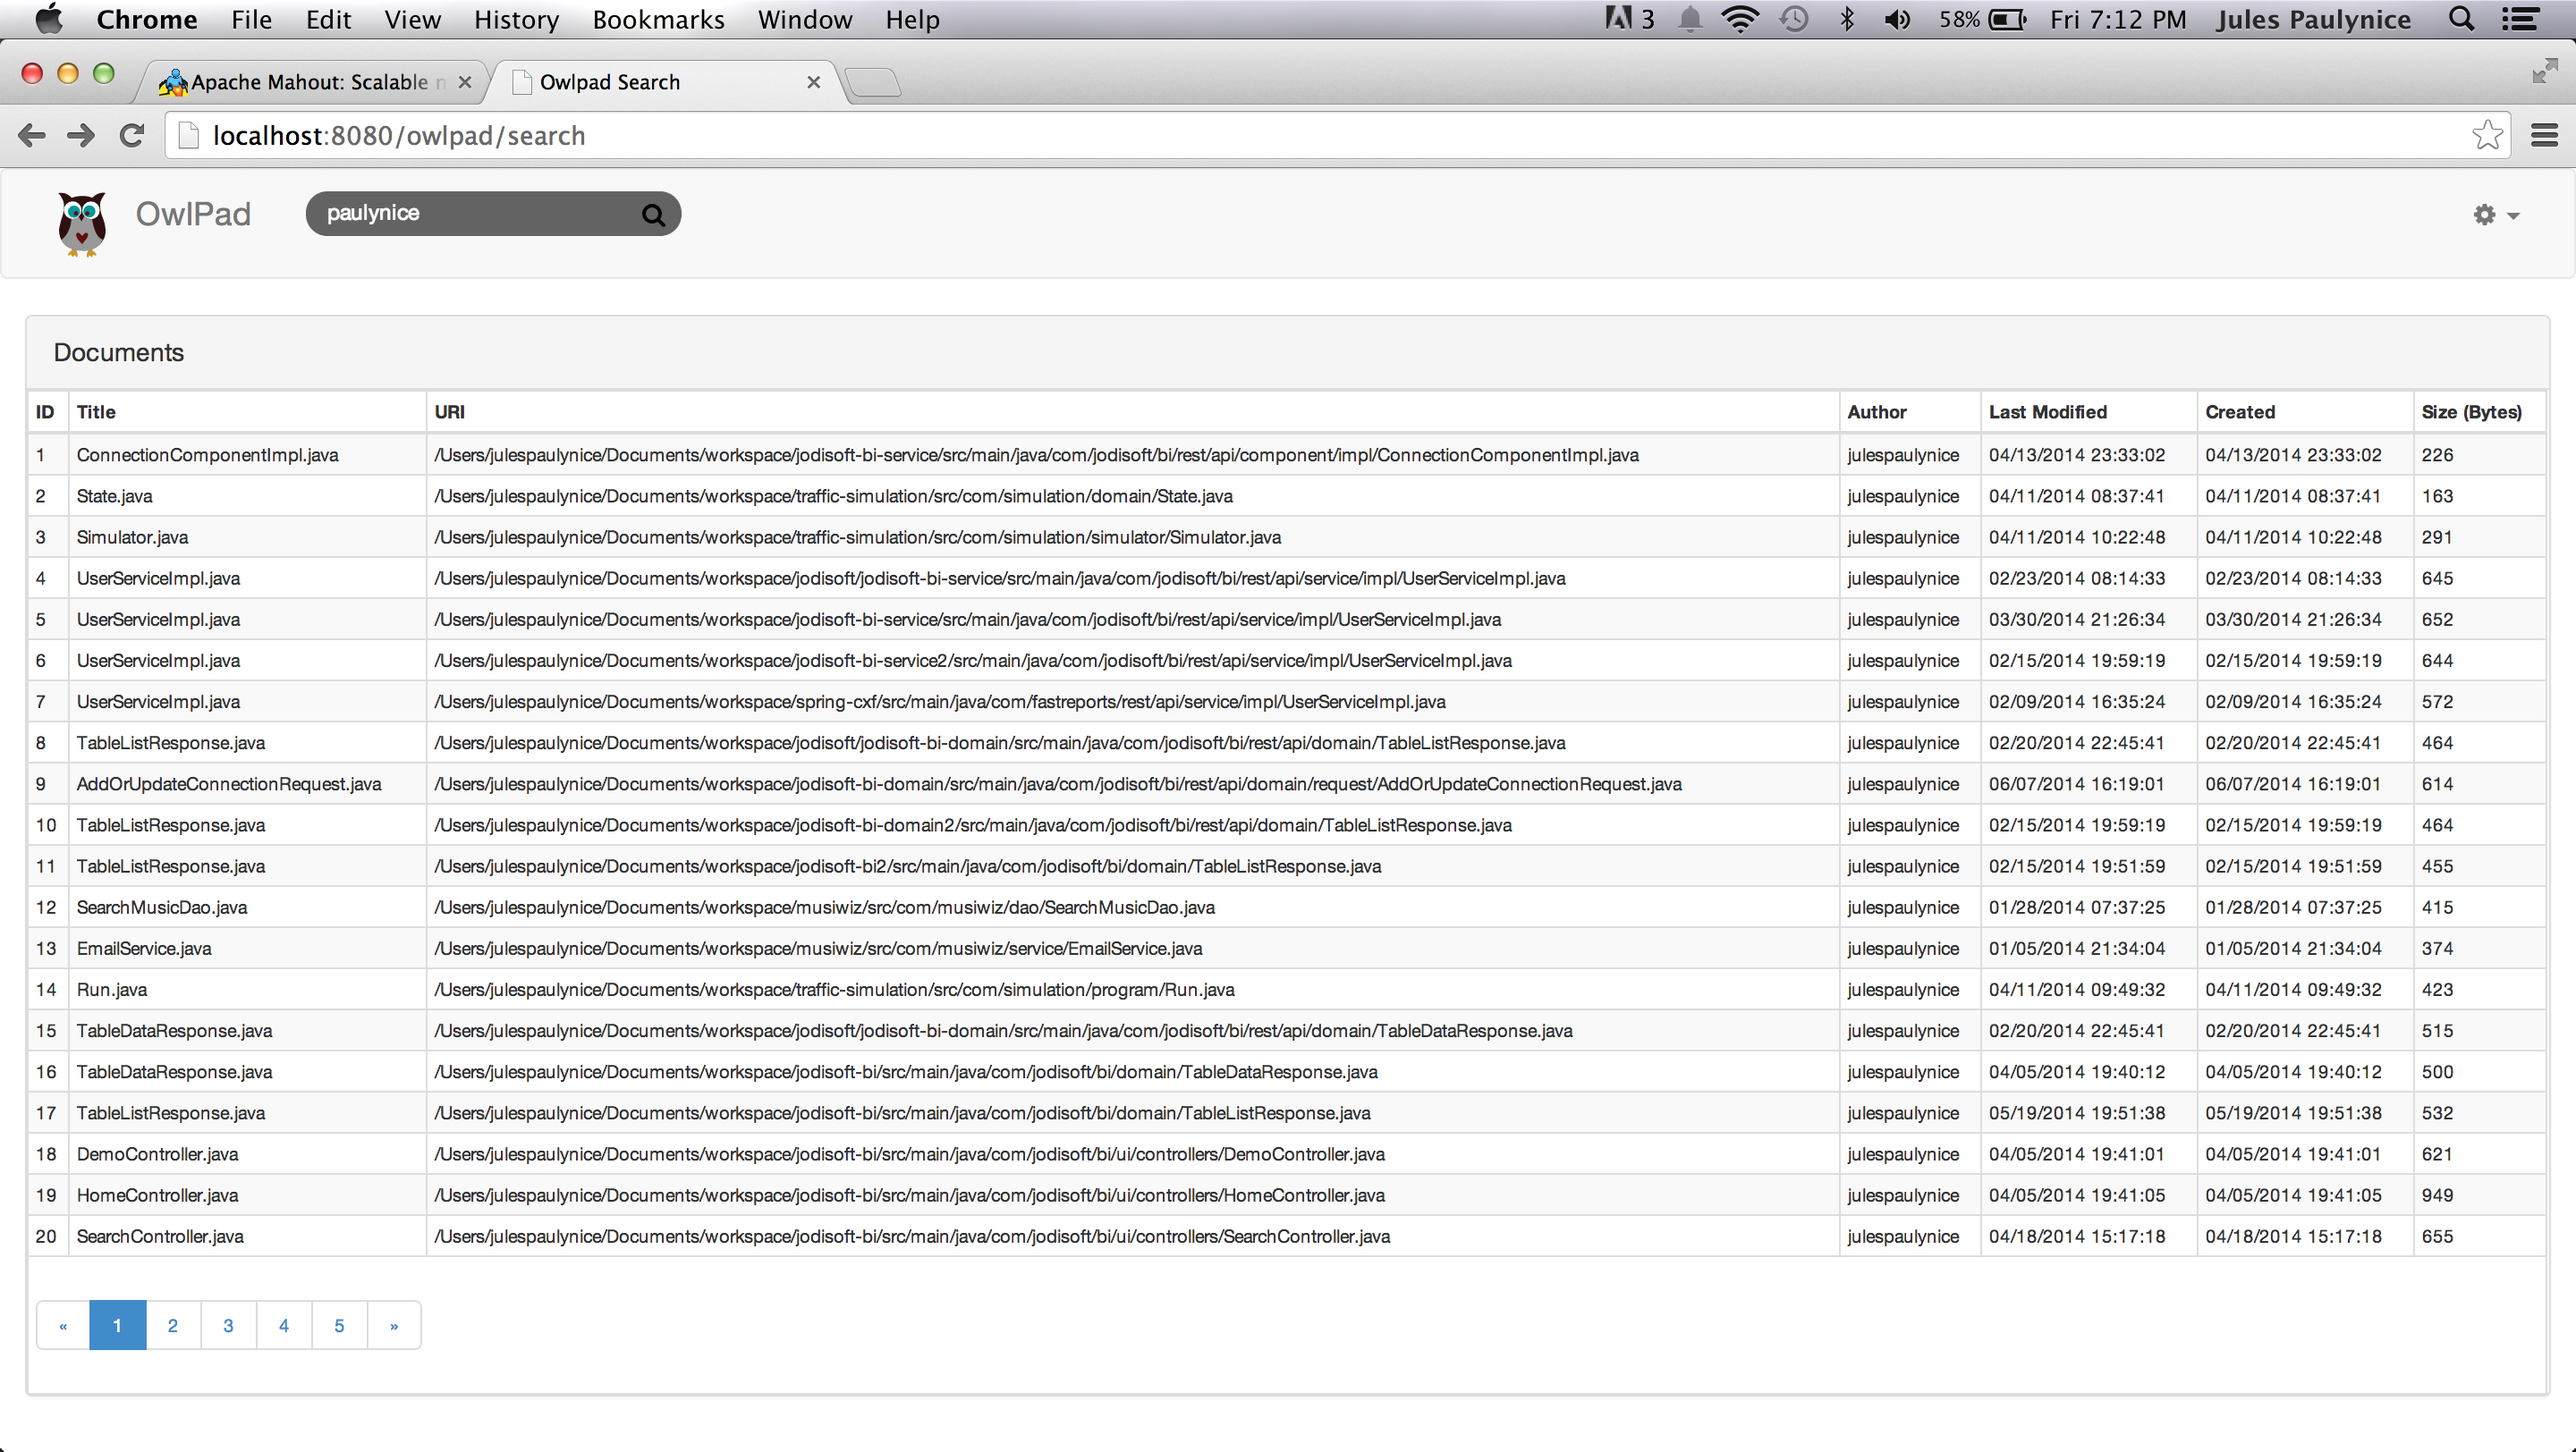
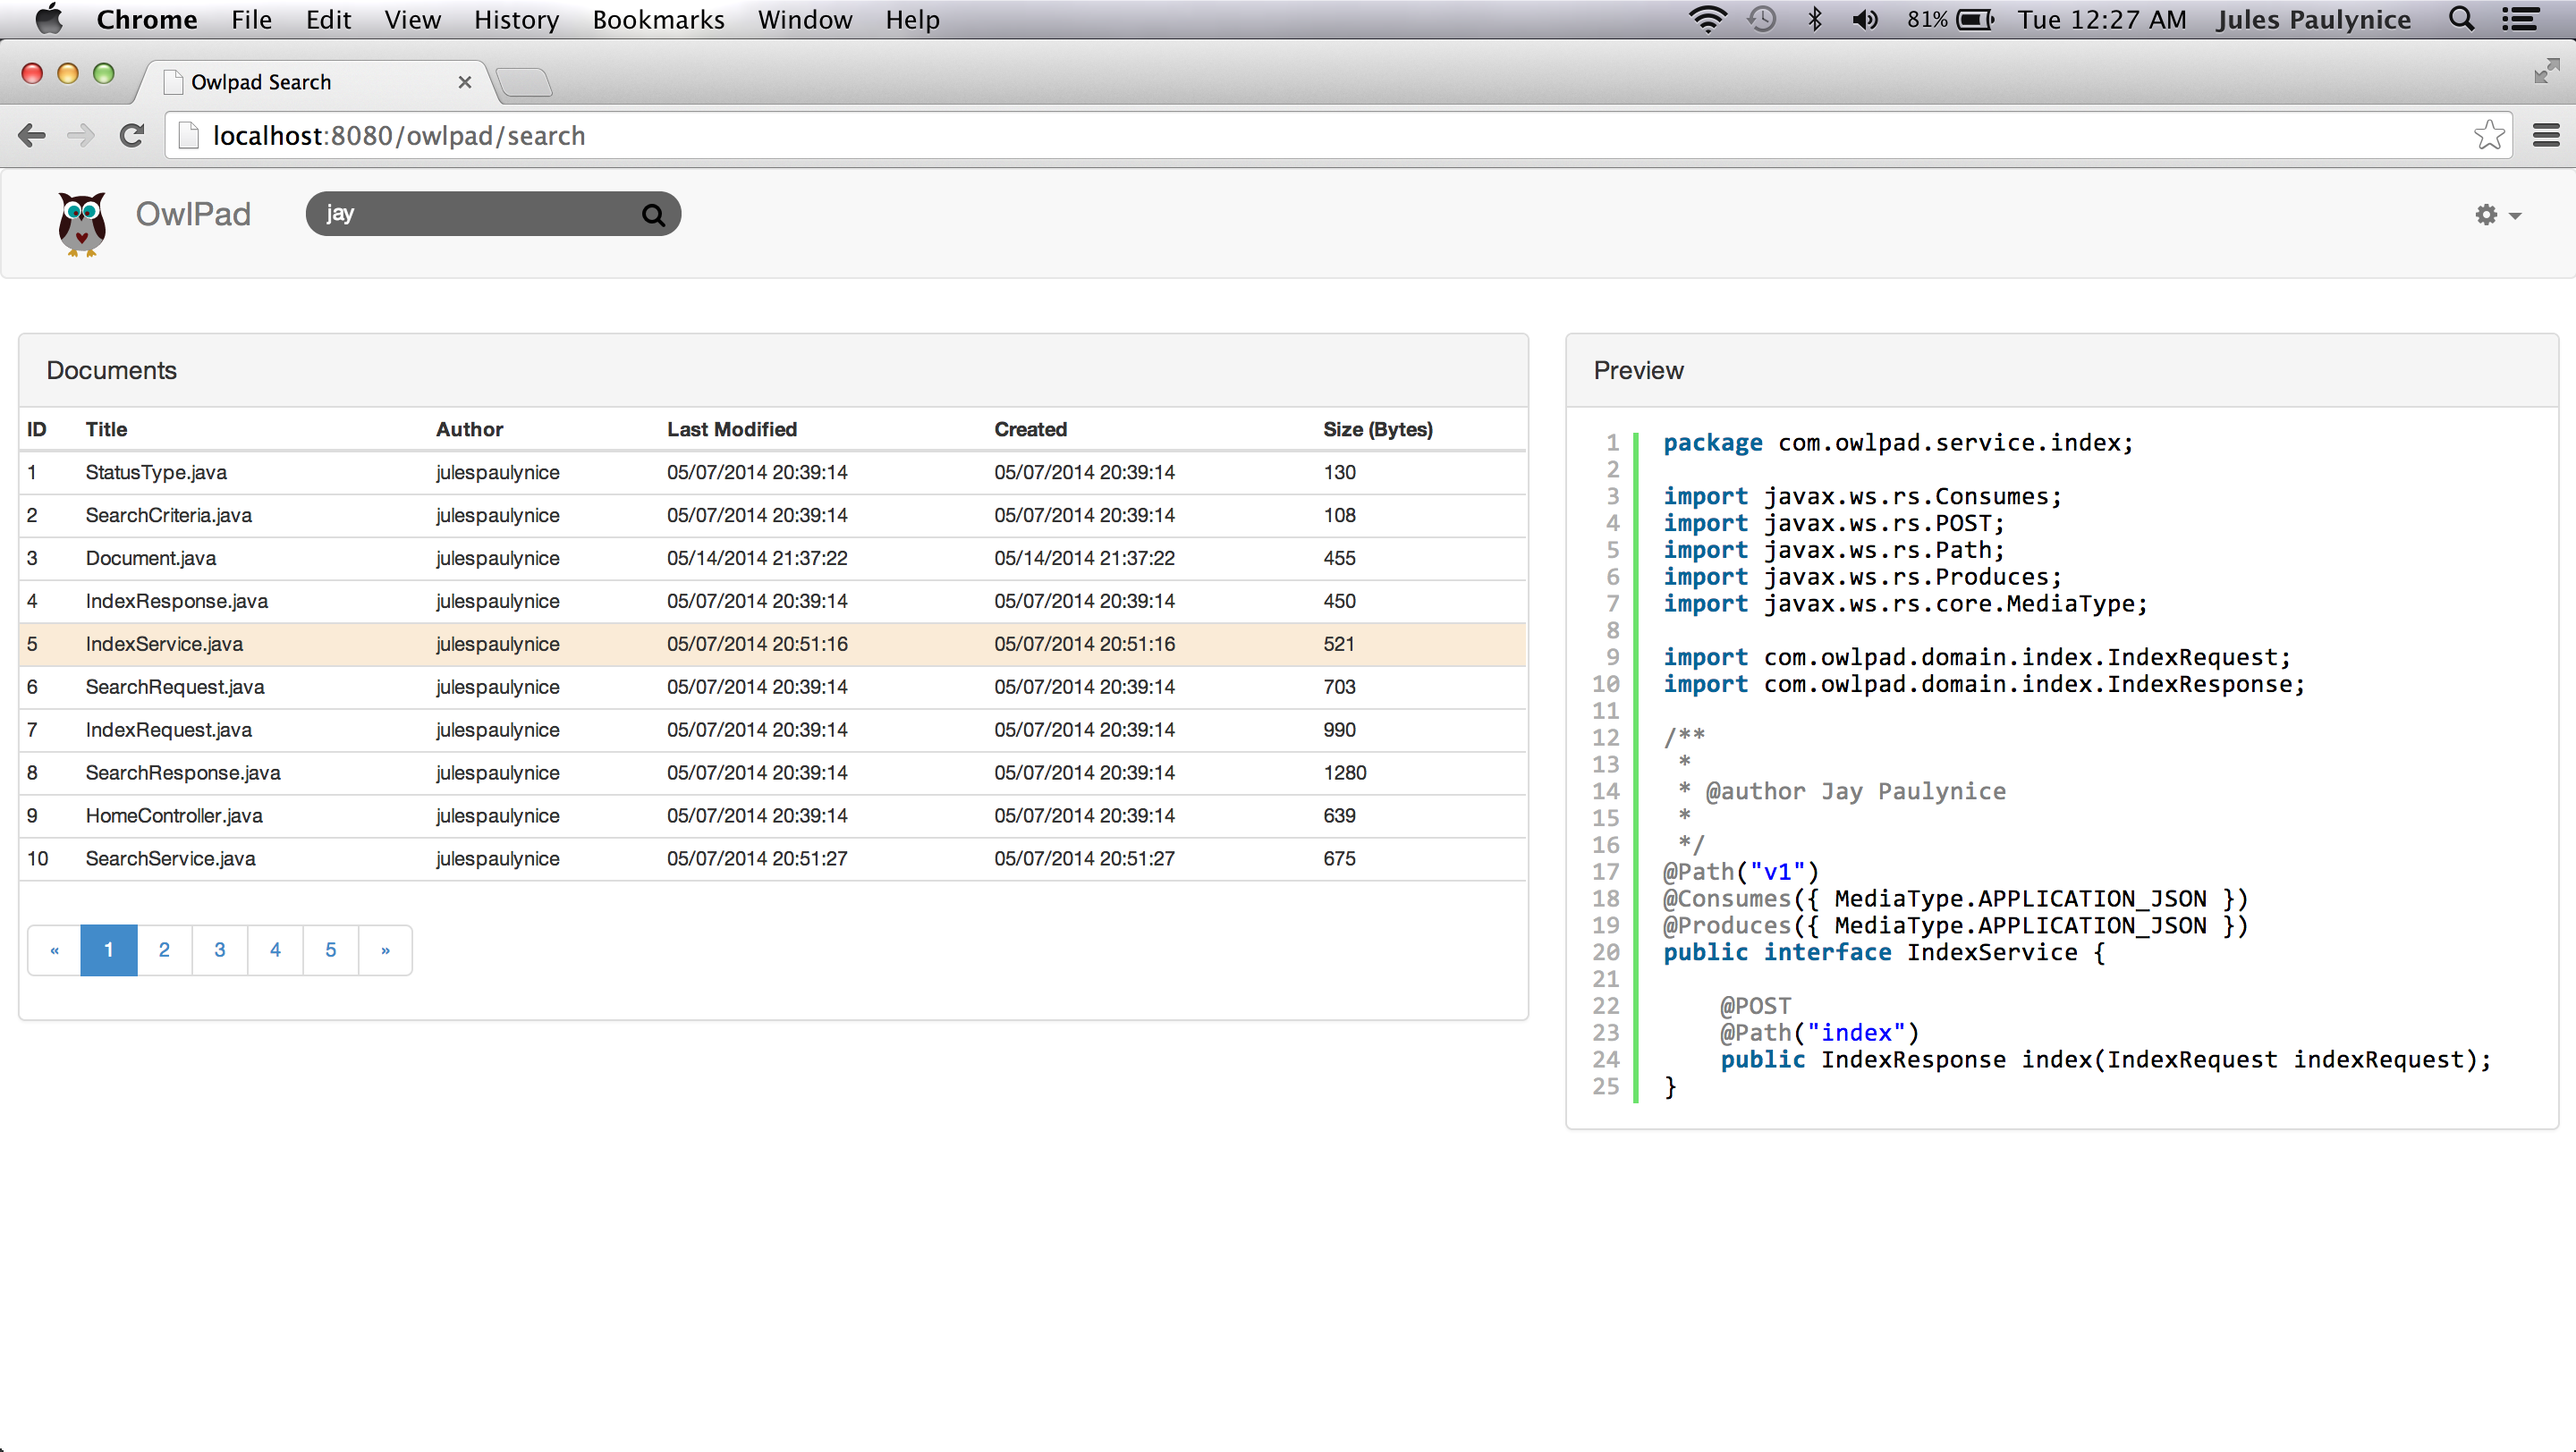
work on syntaxhighlighter to show preview in nice format

diff --git a/owlpad-app/src/main/webapp/resources/js/apps/search/views/previewView.js b/owlpad-app/src/main/webapp/resources/js/apps/search/views/previewView.js
@@ -3,11 +3,20 @@ define([ 'jquery',
          'backbone', 
          'marionette',
          'bootstrap',
-         'hbs!apps/search/templates/previewTemplate' ],
-         function($, _, Backbone, Marionette,Bootstrap, template) {
+         'hbs!apps/search/templates/previewTemplate',
+         'syntaxHighlighter',
+         'shBrush'],
+         function($, _, Backbone, Marionette,Bootstrap,template,SyntaxHighlighter, Brush) {
     
     var preview = Backbone.Marionette.ItemView.extend({
         template:template,
+        
+        onShow: function(){
+            SyntaxHighlighter.highlight({
+                toolbar: false,
+                gutter: true
+            });
+        }
     });
 
     return preview;

diff --git a/owlpad-app/src/main/webapp/resources/js/apps/common/grid/views/gridRow.js b/owlpad-app/src/main/webapp/resources/js/apps/common/grid/views/gridRow.js
@@ -5,7 +5,7 @@ define([ 'jquery',
          'underscore', 
          'backbone', 
          'marionette',
-         'hbs!apps/common/grid/templates/gridRowTemplate' ], 
+         'hbs!apps/common/grid/templates/gridRowTemplate'], 
          function($, _, Backbone,Marionette, gridRowTemplate) {
 
 	var GridRow = Backbone.Marionette.ItemView.extend({
@@ -17,6 +17,11 @@ define([ 'jquery',
 		},
 		
 		handleClick: function(e){
+		    /*_.each(this.model.collection.models,function(model){
+		        model.set('highlighted',false);
+		    });
+		    this.model.set('highlighted',true);
+		    */
 		    this.model.trigger('app:grid:showPreview',this.model.get('source'));
 		}
 	});

diff --git a/owlpad-app/src/main/webapp/resources/js/main.js b/owlpad-app/src/main/webapp/resources/js/main.js
@@ -11,7 +11,9 @@ require.config({
 		backbone : 'vendor/backbone',
 		marionette : 'vendor/backbone.marionette.min',
 		i18nprecompile : 'vendor/i18nprecompile',
-		bootstrap:'vendor/bootstrap.min'
+		bootstrap:'vendor/bootstrap.min',
+		syntaxHighlighter: 'vendor/syntaxHighlighter/shCore',
+		shBrush: 'vendor/syntaxHighlighter/shBrushJava'
 	},
 
 	shim : {
@@ -38,6 +40,14 @@ require.config({
 		bootstrap:{
 			deps:['jquery'],
 			exports:'Bootstrap'
-		}
+		},
+		syntaxHighlighter:{
+		    deps:['jquery'],
+		    exports:'SyntaxHighlighter'
+		},
+		shBrush:{
+            deps:['syntaxHighlighter'],
+            exports:'shBrush'
+        }
 	}
 });

diff --git a/owlpad-app/src/main/webapp/resources/js/apps/search/app.js b/owlpad-app/src/main/webapp/resources/js/apps/search/app.js
@@ -6,11 +6,11 @@ define([ 'jquery',
          'backbone', 
          'marionette',
          'apps/common/utils',
-         'apps/search/mediators/searchMediator'], 
+         'apps/search/mediators/searchMediator'],
          function($, _, Backbone, Marionette,AppUtils,SearchMediator) {
 
 	var App = new Backbone.Marionette.Application();
-
+    
 	App.addRegions({
 		header:".navbar-default",
 		gridRegion : '.gridRegion',

diff --git a/owlpad-app/src/main/webapp/resources/js/apps/search/sh/sh.js b/owlpad-app/src/main/webapp/resources/js/apps/search/sh/sh.js
@@ -1,0 +1,18 @@
+define(['syntaxHighlighter',
+         'shBrushJS'], 
+         function(SyntaxHighlighter, JsBrush) {
+    var SH = function() {
+
+        /**
+         * Call the search endpoint
+         */
+        this.setup = function() {
+            SyntaxHighlighter.highlight({
+                toolbar: false,
+                gutter: true
+            });
+        };
+    };
+    
+    return SH;
+});

diff --git a/owlpad-app/src/main/webapp/resources/js/apps/common/grid/views/grid.js b/owlpad-app/src/main/webapp/resources/js/apps/common/grid/views/grid.js
@@ -13,7 +13,7 @@ define([ 'jquery',
 			var Grid = Backbone.Marionette.CompositeView.extend({
 				template : gridTemplate,
 				tagName : "table",
-				className: "table table-bordered table-striped",
+				className: "table",
 				itemView : GridRow,
 				
 				initialize : function(options) {

diff --git a/owlpad-app/src/main/webapp/resources/css/styles.css b/owlpad-app/src/main/webapp/resources/css/styles.css
@@ -172,3 +172,7 @@ body.loading {
 body.loading .spinner {
 	display: block;
 }
+
+.highlighted{
+	background:#BBD9BB;
+}
